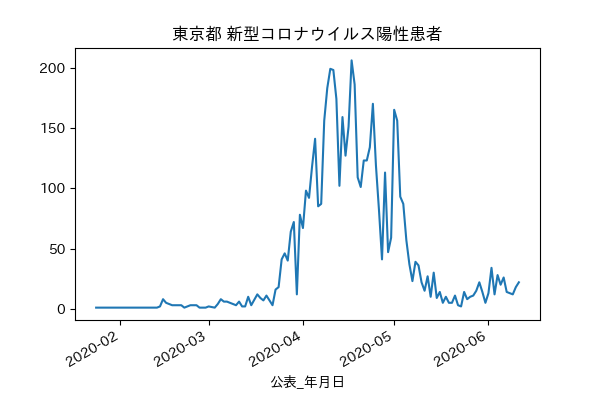
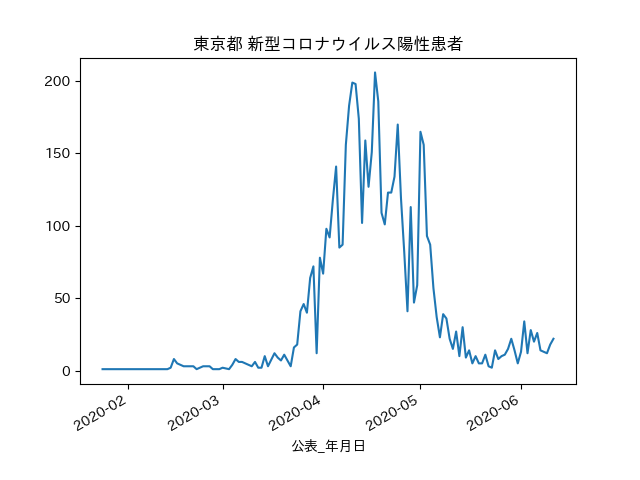
Update image links.

diff --git a/README.md b/README.md
@@ -38,8 +38,8 @@ A few minutes will take to run the container for Docker image building and insta
 
 ## 実行例 / Example
 
-![日別陽性患者数](https://github.com/yu-kun/covid19-tokyo-opendata/blob/master/data/daily_patient_number_20200523.png)
-![年代別陽性患者数](https://github.com/yu-kun/covid19-tokyo-opendata/blob/master/data/distribution_of_patients_by_age_group_20200523.png)
+![日別陽性患者数](https://github.com/yu-kun/covid19-tokyo-opendata/blob/master/data/daily_patient_number_20200611.png)
+![年代別陽性患者数](https://github.com/yu-kun/covid19-tokyo-opendata/blob/master/data/distribution_of_patients_by_age_group_20200611.png)
 
 ## 参考サイト / Reference
 
